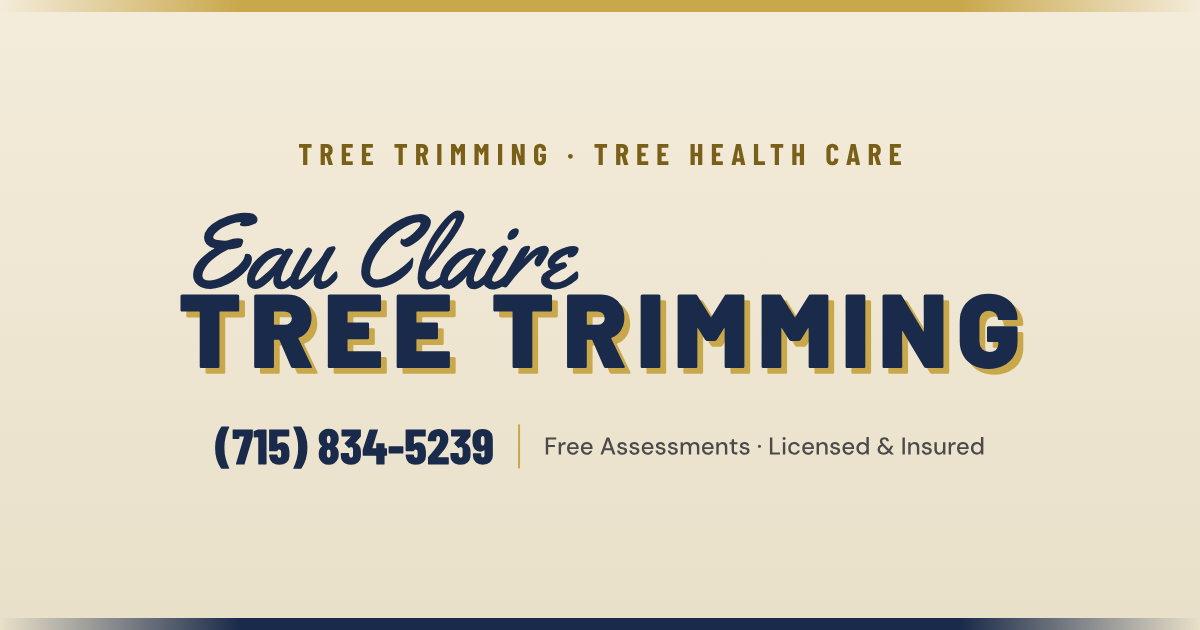
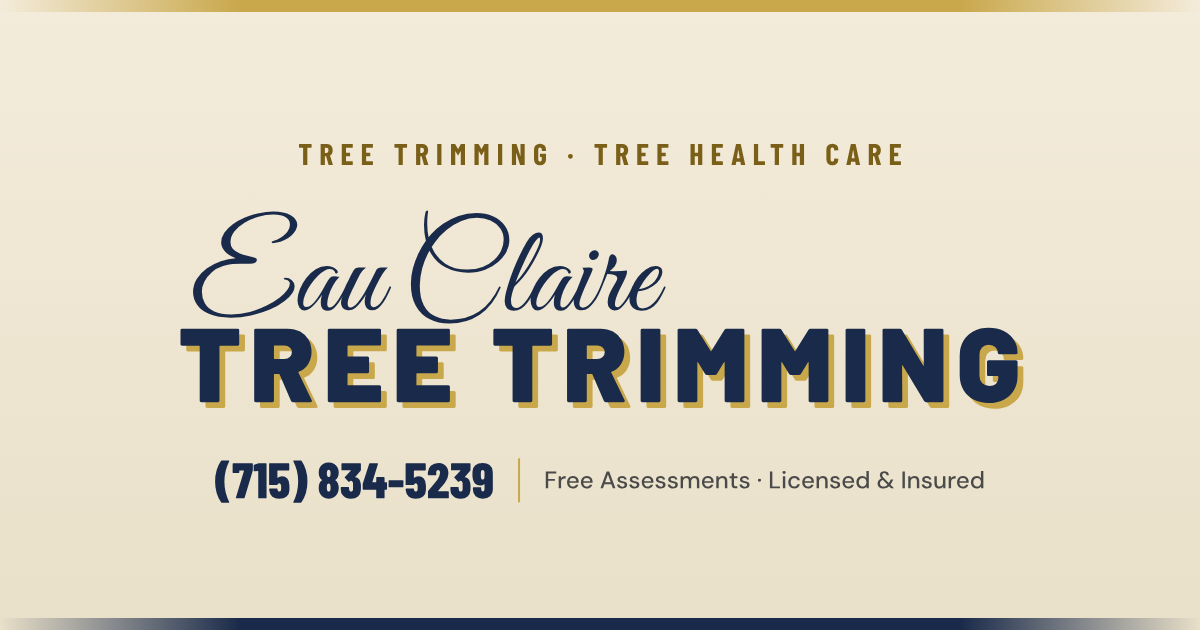
Use Great Vibes script in the wordmark (option A1)
Switches the "Eau Claire" script in logo.svg, logo-dark.svg and
og-image.png from Yellowtail to Great Vibes, the script the sites have
always used. The lockup is a little taller, so the header img dimensions
and the .logo-wordmark height (46px desktop, 40px mobile) are updated to
match.

Claude-Session: https://claude.ai/code/session_018xjEKV8orQTkLhF4Np6DfA

Changed region(s): [[0.1542, 0.3317, 0.8633, 0.8143]]

diff --git a/src/css/style.css b/src/css/style.css
@@ -1454,7 +1454,7 @@ a.area-card:hover {
 }
 .logo-wordmark {
   display: block;
-  height: 40px;
+  height: 46px;
   width: auto;
 }
 
@@ -1464,7 +1464,7 @@ a.area-card:hover {
   .drawer-logo {
     padding: 4px 10px;
   }
-  .logo-wordmark { height: 34px; }
+  .logo-wordmark { height: 40px; }
 }
 
 /* Footer: round badge, served as /images/logo-badge.svg */
